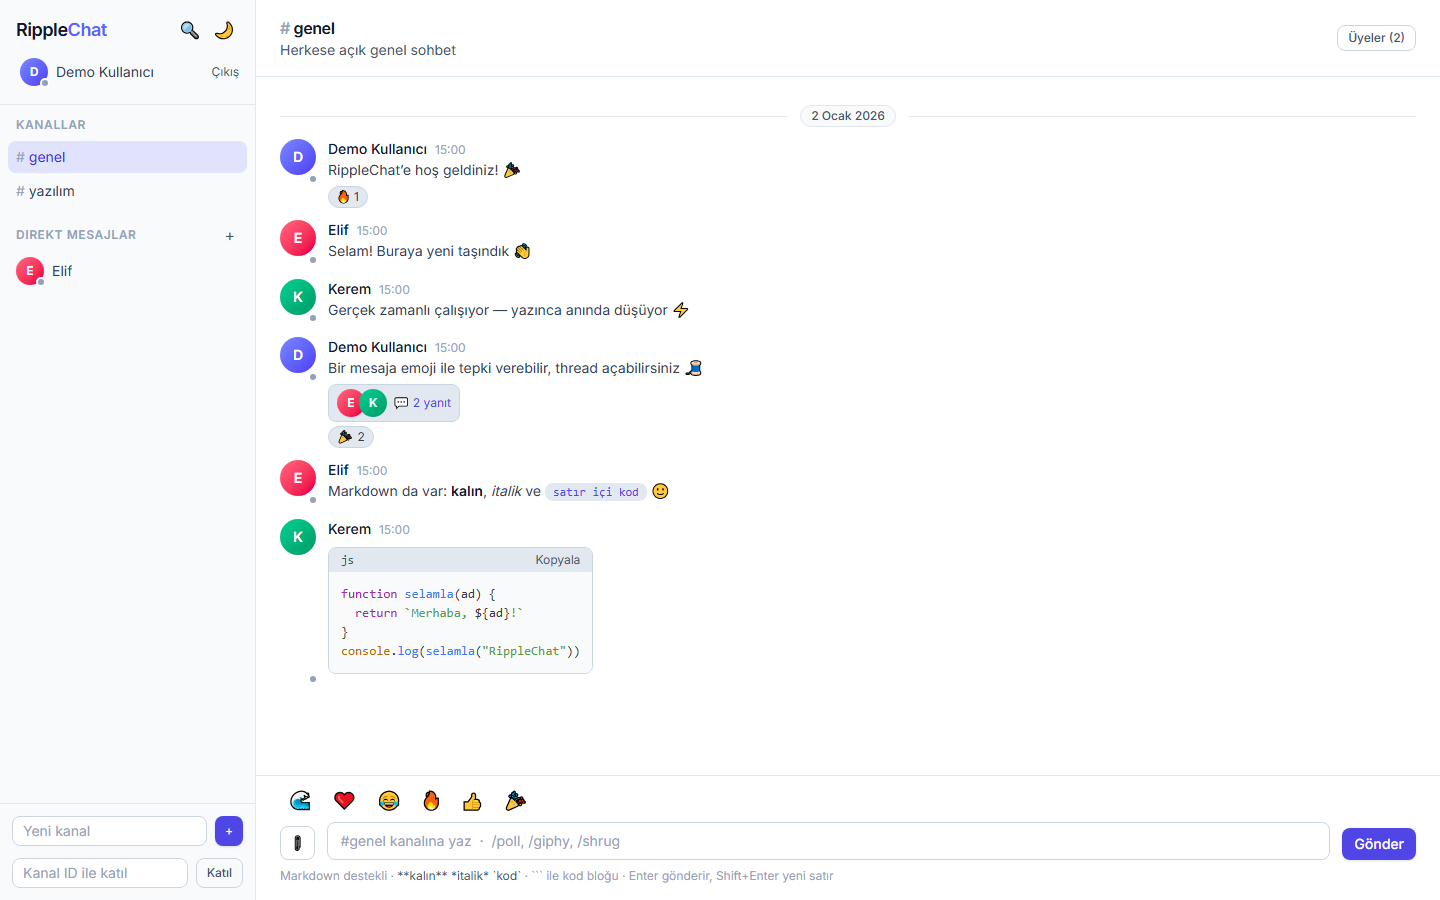
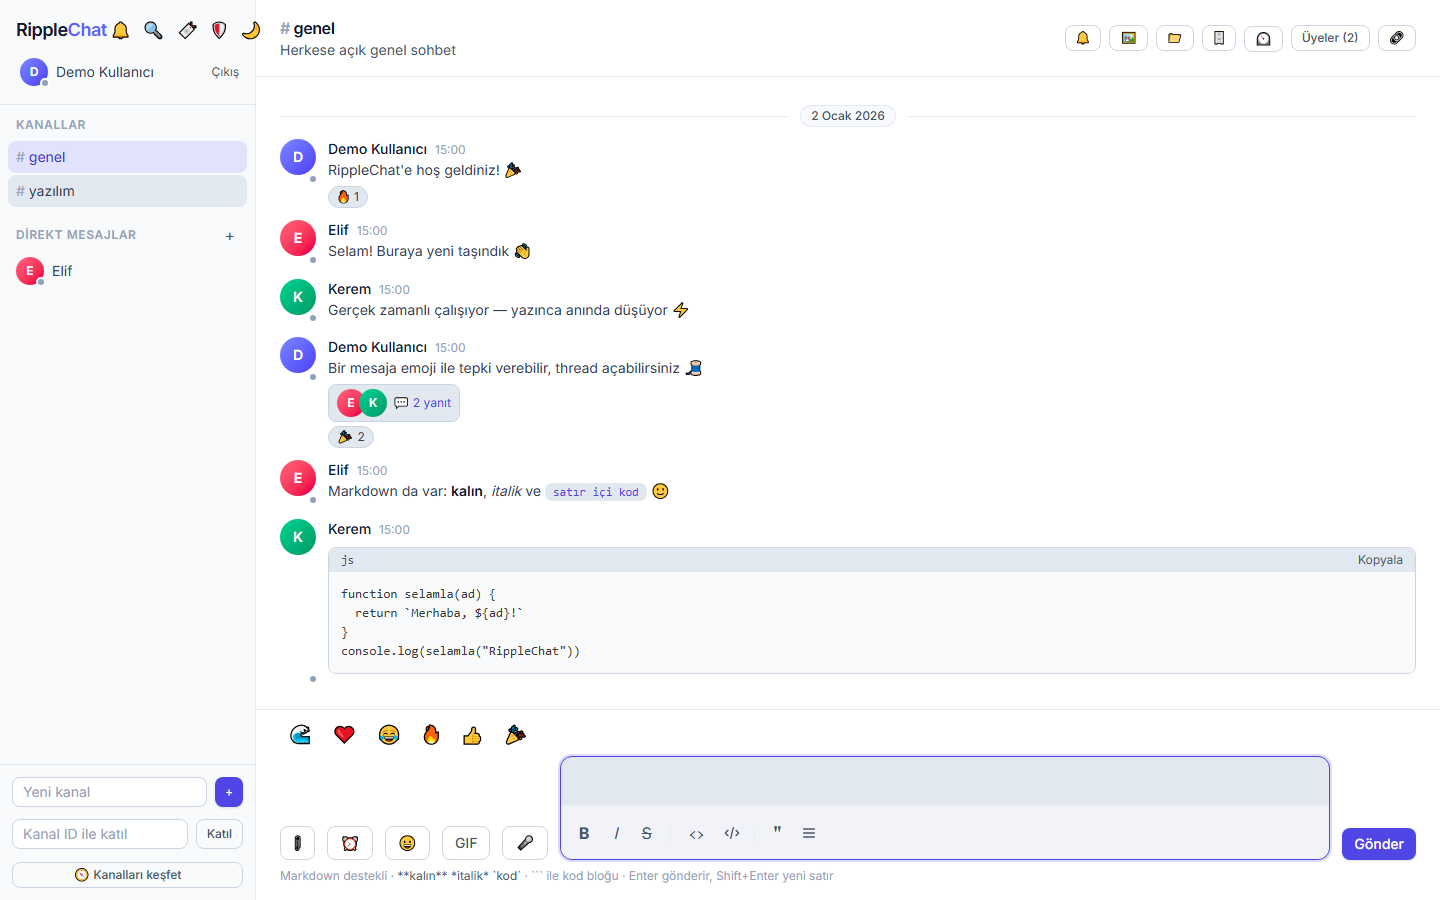
docs: add dark mode, mobile, admin, and E2EE screenshots
Regenerated from the screenshot spec with two generator fixes: hide the
new connection-status banner (the old rule targeted the retired amber
class) and open the off-canvas sidebar before picking a channel on the
mobile viewport. The synthetic call frame is not used.

diff --git a/frontend/e2e/screenshots.spec.ts b/frontend/e2e/screenshots.spec.ts
@@ -51,7 +51,9 @@ const dmMessages = [
 
 const page0 = (content: unknown[]) => ({ content, page: 0, size: 50, totalElements: content.length, totalPages: 1, last: true })
 
-const HIDE_BANNER = 'div[class*="bg-amber-500"]{display:none!important}'
+// Hide the connection-status banner (no WebSocket server in screenshot mode,
+// so it would show "disconnected" in every shot).
+const HIDE_BANNER = 'div[role="alert"]{display:none!important}'
 
 async function stub(page: Page, authed = true) {
   await page.route('**/ws/**', (route) => route.abort())
@@ -141,7 +143,9 @@ test('mobile', async ({ page }) => {
   await page.setViewportSize({ width: 390, height: 844 })
   await stub(page)
   await page.goto('/chat')
-  // On mobile the sidebar may auto-show; tap the first channel to open the panel.
+  // The sidebar is off-canvas on mobile — open it with the "☰ Kanallar"
+  // button first; picking a channel closes it again.
+  await page.getByRole('button', { name: '☰ Kanallar' }).click()
   await page.getByRole('button', { name: /genel/i }).first().click()
   await expect(page.getByText('hoş geldiniz', { exact: false })).toBeVisible()
   await page.addStyleTag({ content: HIDE_BANNER })

diff --git a/README.md b/README.md
@@ -395,9 +395,25 @@ ripplechat/
 
 ![Channel view](docs/screenshots/channel.png)
 
+**Dark mode** — the same channel with the dark theme:
+
+![Dark mode](docs/screenshots/channel-dark.png)
+
 **Direct message** — a private 1:1 conversation:
 
 ![Direct messages](docs/screenshots/direct-message.png)
+
+**End-to-end encryption** — the 🔒 badge in the DM header confirms E2EE is active, next to delivery/read ticks:
+
+![E2EE](docs/screenshots/e2ee.png)
+
+**Admin panel** — platform stats, user management, and the audit log:
+
+![Admin panel](docs/screenshots/admin.png)
+
+**Mobile** — responsive layout on a phone viewport:
+
+![Mobile](docs/screenshots/mobile.png)
 
 ---
 
